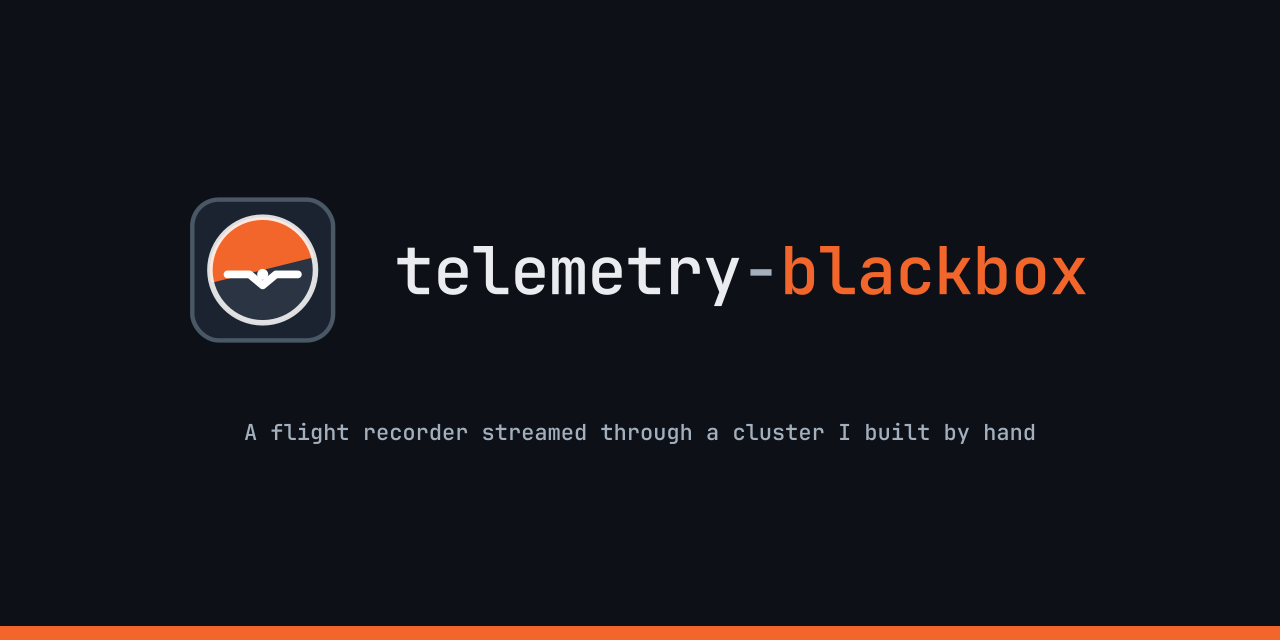
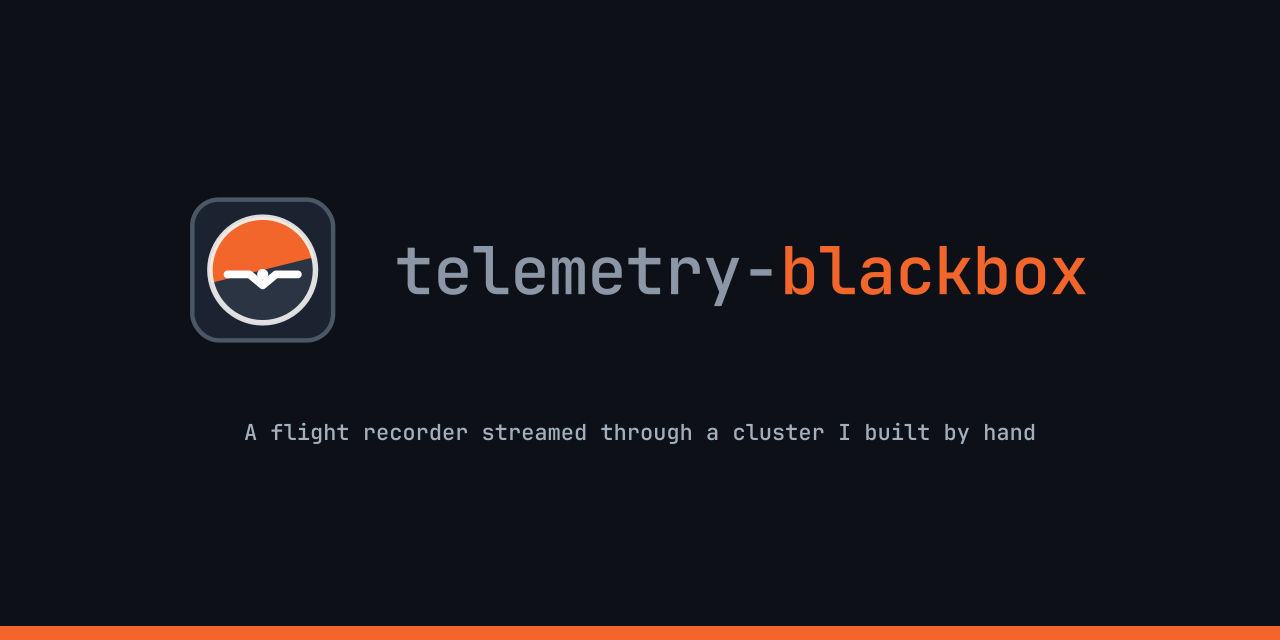
fix(brand): keep the dark wordmark legible on light pages
When a page is light but the system is dark, <picture> shows the dark logo, and its near-white wordmark disappeared. Slate (#8b97a6) holds 3:1 on white and 6.4:1 on a dark page.

Changed region(s): [[0.3125, 0.375, 0.5938, 0.4688]]

diff --git a/docs/brand/README.md b/docs/brand/README.md
@@ -40,7 +40,7 @@ that means a `<picture>` element:
 | Ink | `#0f1720` | The box and the wordmark on light backgrounds |
 | Box (dark) | `#1c2330` | The box on dark backgrounds, with a `#4a5866` edge |
 | Ground | `#2a3442` | Below the horizon |
-| Light text | `#eaecef` | The wordmark on dark backgrounds |
+| Slate | `#8b97a6` | The wordmark on dark backgrounds, chosen to stay legible (3:1) if it lands on a light page |
 
 ## Where it appears
 
